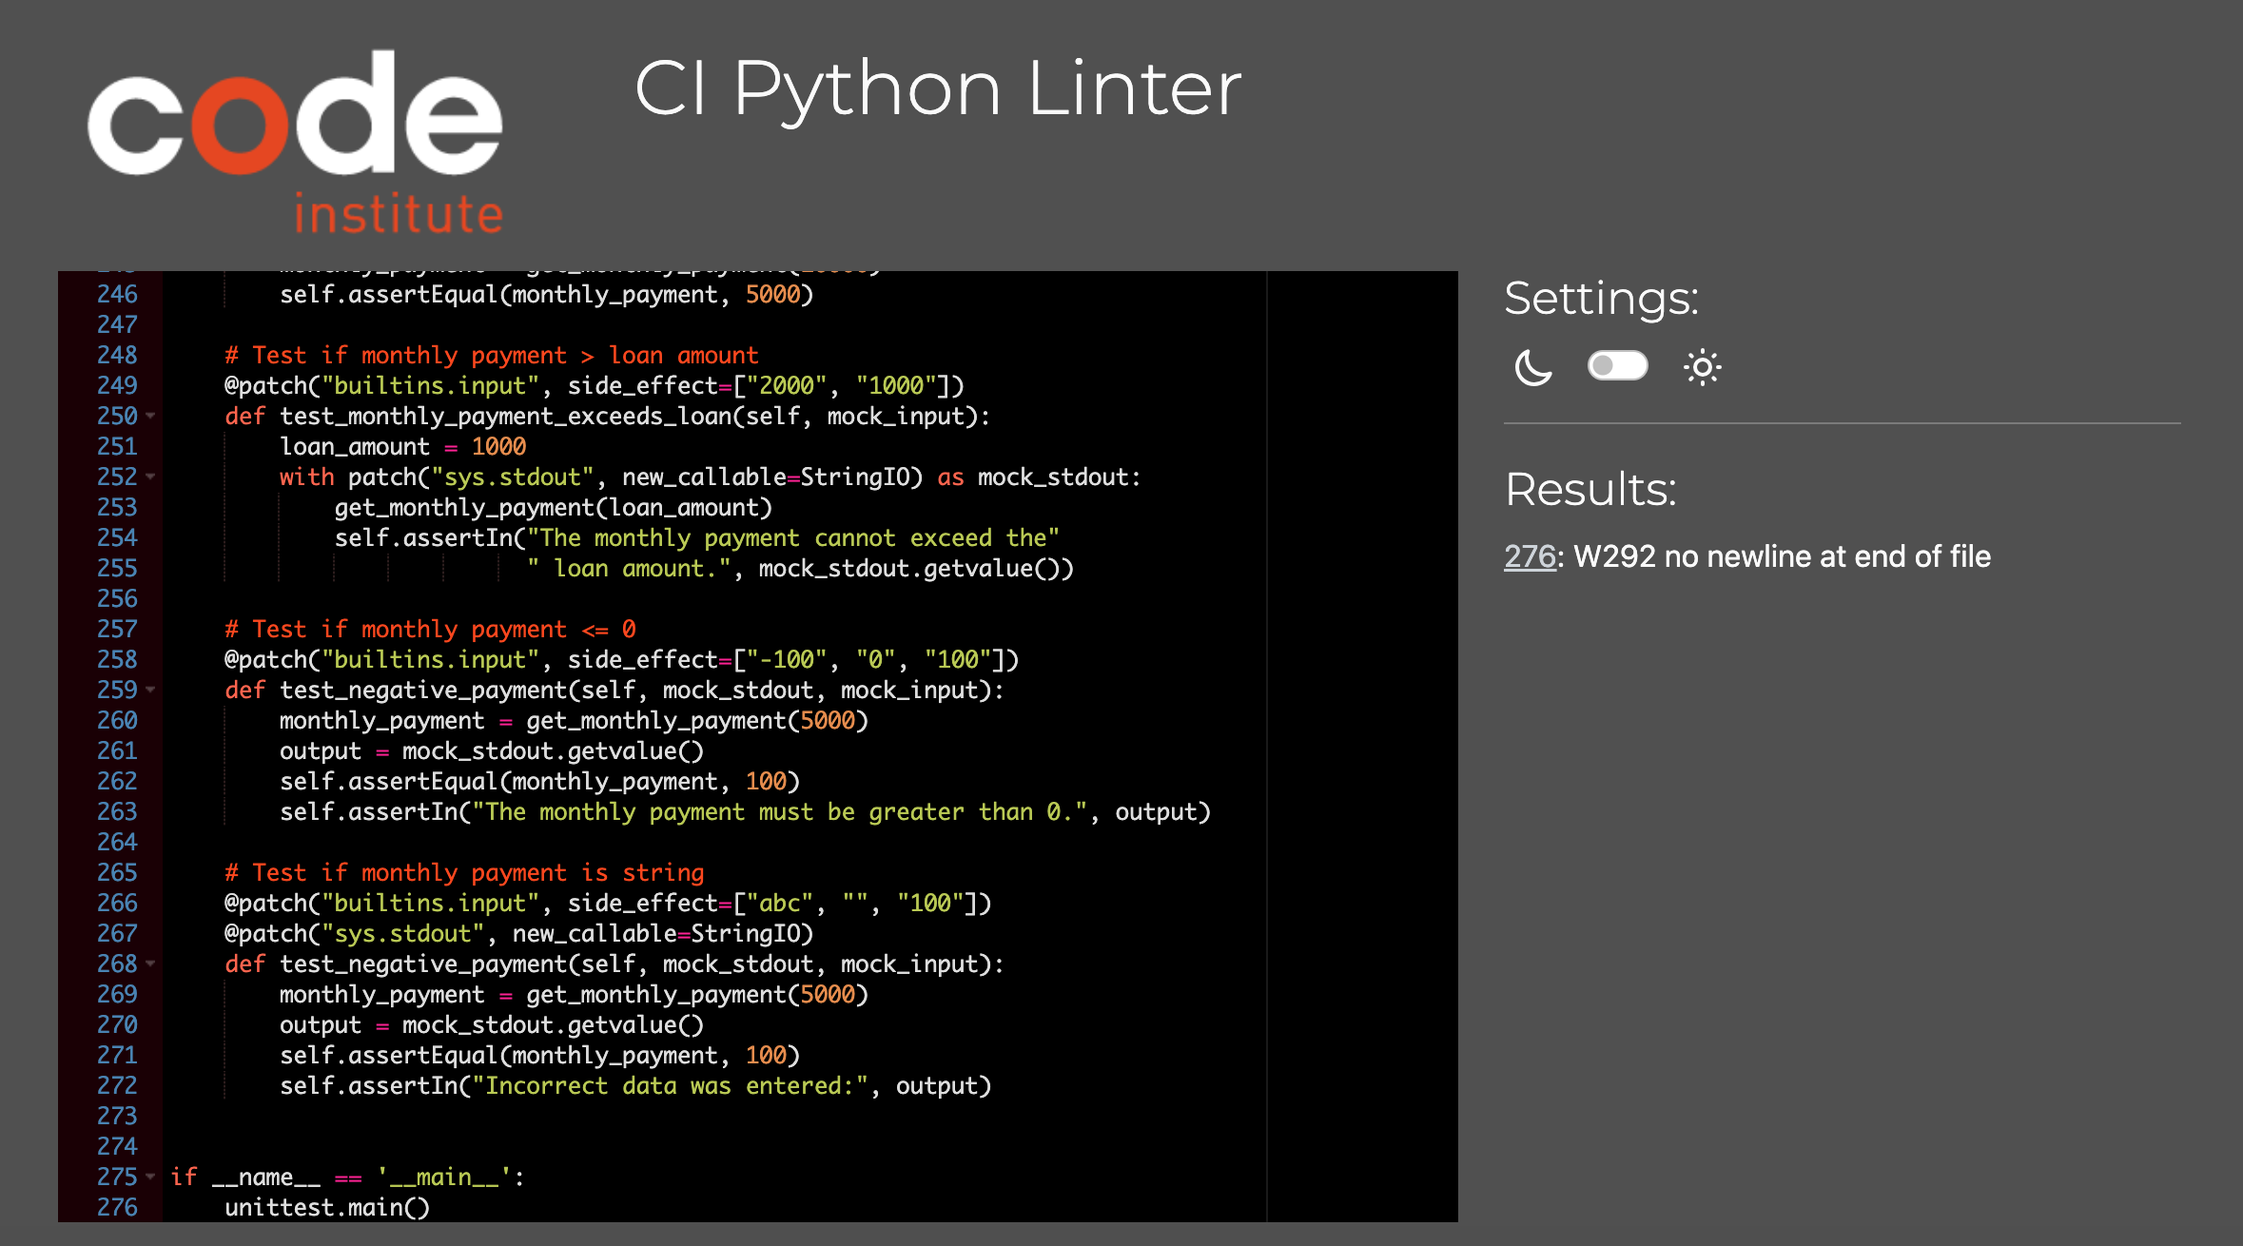
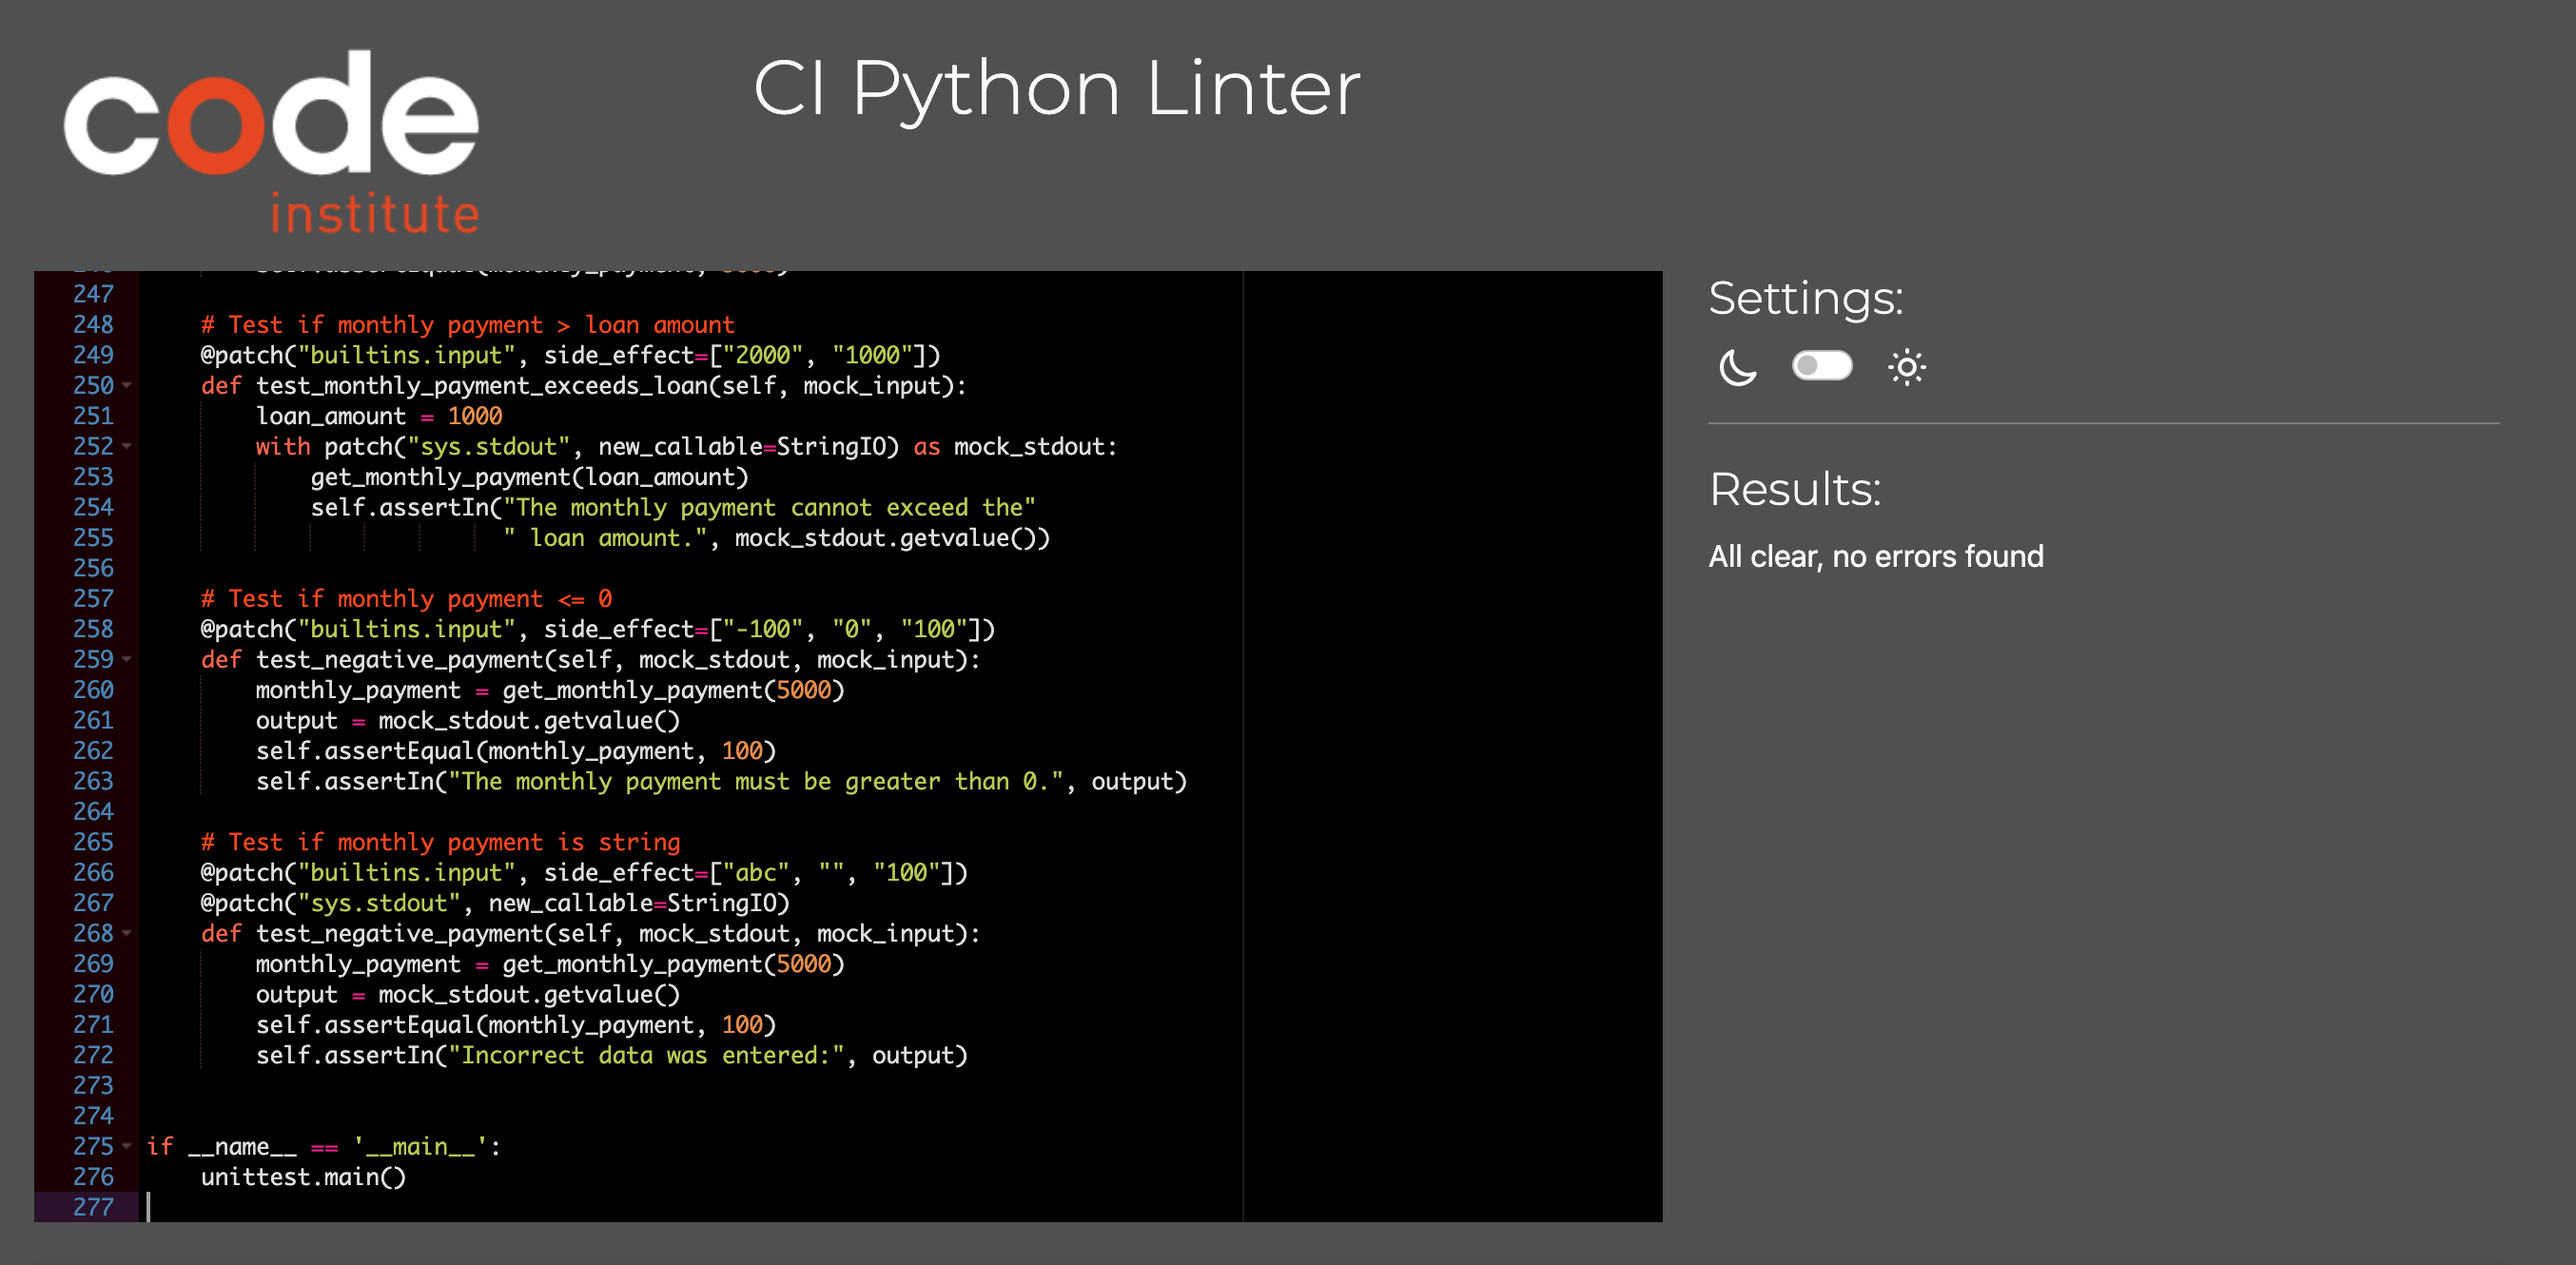
Add name == main to the bottom of the run file/add updated images from pep8 validator to readme

diff --git a/test.py b/test.py
@@ -11,36 +11,37 @@ class Test(unittest.TestCase):
     Testing the get functions
     """
     # Test for name
-    @patch("builtins.input", return_value="Tamas")
+    @patch("builtins.input", return_value="Tamas G")
     def test_get_name(self, mock_input):
         name = get_name()
-        self.assertEqual(name, "Tamas")
+        self.assertEqual(name, "Tamas G")
 
     # Test for the length of the name
-    @patch("builtins.input", side_effect=["four", "Tamas"])
+    @patch("builtins.input", side_effect=["four", "Tamas G"])
     @patch("sys.stdout", new_callable=StringIO)
     def test_get_name_short_input(self, mock_stdout, mock_input):
         name = get_name()
         output = mock_stdout.getvalue()
-        self.assertEqual(name, "Tamas")
+        self.assertEqual(name, "Tamas G")
         self.assertIn("The name is too short.", output)
 
     # Test if the name contains numbers
-    @patch("builtins.input", side_effect=["12345", "Tamas"])
+    @patch("builtins.input", side_effect=["1234335", "Tamas G"])
     @patch("sys.stdout", new_callable=StringIO)
     def test_get_name_num_input(self, mock_stdout, mock_input):
         name = get_name()
         output = mock_stdout.getvalue()
-        self.assertEqual(name, "Tamas")
-        self.assertIn("Name cannot contain numbers.", output)
+        self.assertEqual(name, "Tamas G")
+        self.assertIn("Name cannot contain numbers or"
+                      " special characters.", output)
 
     # Test if no data entered
-    @patch("builtins.input", side_effect=["", " ", "Tamas"])
+    @patch("builtins.input", side_effect=["", " ", "Tamas G"])
     @patch("sys.stdout", new_callable=StringIO)
     def test_get_name_no_input(self, mock_stdout, mock_input):
         name = get_name()
         output = mock_stdout.getvalue()
-        self.assertEqual(name, "Tamas")
+        self.assertEqual(name, "Tamas G")
         self.assertIn("The name field cannot be empty.", output)
 
     # Test for email
@@ -73,7 +74,7 @@ class Test(unittest.TestCase):
         phone = get_phone()
         output = mock_stdout.getvalue()
         self.assertEqual(phone, "1234567890")
-        self.assertIn("Please enter a valid phone number:", output)
+        self.assertIn("Please enter a valid phone number.", output)
 
     # Test for age
     @patch("builtins.input", return_value=30)

diff --git a/run.py b/run.py
@@ -64,13 +64,14 @@ def get_name():
         while True:
             name = input(standard_style() + "Please enter your full name:\n")
             # Check for digits in name
-            name_check = re.findall('\\d', name)
+            name_check = re.findall(r'[\d@,!?#£$%]', name)
             if name.strip() == "":
                 print(wrong_input() + "The name field cannot be empty.")
             elif len(name) < 6:
                 print(wrong_input() + "The name is too short.")
             elif name_check:
-                print(wrong_input() + "Name cannot contain numbers.")
+                print(wrong_input() + "Name cannot contain numbers or"
+                      " special characters.")
             else:
                 break  # Exit loop if name is valid
     except IndexError as e:
@@ -731,8 +732,8 @@ class Applicant:
             if applicant["Email"] == self.email.upper() and \
                applicant["Name"] == self.name.upper():
                 print(Fore.CYAN + Style.BRIGHT + "You have already applied"
-                      f" for a loan, and it was {applicant['Application']}.\n"
-                      , Fore.CYAN + Style.BRIGHT + f"{applicant}")
+                      f" for a loan, and it was {applicant['Application']}.\n",
+                      Fore.CYAN + Style.BRIGHT + f"{applicant}")
                 return True
 
         return False
@@ -768,4 +769,5 @@ def run():
             print("Application is closing...")
 
 
-run()
+if __name__ == '__main__':
+    run()

diff --git a/README.md b/README.md
@@ -8,11 +8,11 @@ The name of the app rhymes with "Check Alone" because users typically check thei
 ![AmIResponsive](docs/screenshots/am-i-responsive.png)
 
 ## Contents
-[How to Use](#how-to-use)
-[Features](#features)
+- [How to Use](#how-to-use)
+- [Features](#features)
   - [Existing Features](#existing-features)
   - [Future Features](#future-features)
-[Data Model](#data-model)
+- [Data Model](#data-model)
   - [Excel](#excel)
   - [Flowchart](#flowchart)
   - [Data Handling](#data-handling)
@@ -20,16 +20,16 @@ The name of the app rhymes with "Check Alone" because users typically check thei
     - [Outside Functions](#outside-functions)
     - [Applicant Class](#applicant-class)
   - [Libraries](#libraries)
-[Testing](#testing)
+- [Testing](#testing)
   - [Bugs](#bugs)
   - [Remaining Bugs](#remaining-bugs)
   - [Validator Testing](#validator-testing)
   - [Unit Testing](#unit-testing)
-[Deployment](#deployment)
+- [Deployment](#deployment)
   - [Local Development](#local-development)
     - [How to Fork](#how-to-fork)
     - [How to Clone](#how-to-clone)
-[Credits](#credits)
+- [Credits](#credits)
   - [Acknowledgements](#acknowledgements)
 
 ## How to Use
@@ -67,7 +67,7 @@ The name of the app rhymes with "Check Alone" because users typically check thei
         - Age over 65<br>![Age-over-65](/docs/screenshots/age-over-65.png)
         - Age between 18 - 65<br>![Age-valid](/docs/gif/age-validation-valid-age.gif)
     - If the user is unemployed the application will be cancelled,
-    <br>and the user will be taken back to the welcome page.
+    <br>and the user will be taken back to the welcome page.<br>
     ![Employment](/docs/gif/employment-validation-unemployed.gif)
     - The loan amount cannot exceed 20,000. If a higher amount is entered, the user will be notified<br> and can choose to proceed with the maximum amount or cancel the application.<br>
     ![Loan amount](/docs/gif/loan-amount-validation.gif)
@@ -100,7 +100,7 @@ Data maintaned in class instances. Some functions are handled outside of the cla
 
 #### Constant and Global variables
 
-- **database** is an empty dictionary. Store the user details.
+- **database** is an empty dictionary to store the user details.
 - **MIN SCORE** 70 points that needs to be reached for approval.
 - **MAX LOAN** the maximum loan amount of 20 000.
 - **MAX LOAN DURATION** - Max loan repayment length in months.
@@ -130,7 +130,7 @@ Data maintaned in class instances. Some functions are handled outside of the cla
 ![Duplicate](/docs/screenshots/duplicate-message.png)
 - **calculate functions** - once the details are confirmed , for each detail the score and interest rate will be calculated. 
 - **status function** - will return either "APPROVED" or "REJECTED".
-- **decision function** - will return the loan details and monthly payment with interest rate for the approved application or the rejection message with the score. 
+- **decision function** - will return the loan details and monthly payment with interest rate for the approved application or the rejection message with the score.<br>
 ![Approved](/docs/screenshots/decision.png)<br>
 ![Rejected](/docs/screenshots/rejected.png)
 - **add to database** - any applications get by the decision phase will be added to the database regardless the outcome. Beside the name and email address no other personal details will be stored. This function will increment the **application ID** by one to make sure the applications will not be replaced in the database.
@@ -141,7 +141,7 @@ The following libraries were used:
 - Colorama to add color to the text. The text is set to green by default. It changes to red for wrong input or if the application is rejected, and to blue if the user submits a duplicate request.
 - Tabulate to display the user details in a table.<br>
 ![Summary](/docs/screenshots/summary-ss.png)
-- RegEx used for phone and email validation
+- RegEx used for name, phone and email validation
 
 ## Testing
 
@@ -158,9 +158,7 @@ No bugs remaining.
 - PEP8 
     - No errors were returned from [PEP8](https://pep8ci.herokuapp.com/)
      Unit test<br>![Pep8unittest](/docs/validation/unittest-pep8.png)<br>
-     Run file<br>![Run.py](/docs/validation/run-file-validation.png)<br>
-     It returned a whitespace before "," in line 734, however there is none.<br>
-     ![error](/docs/validation/pep8-error.png)
+     Run file<br>![Run.py](/docs/validation/run-file-pep8.png)<br>
 
 
 ### Unit Testing
@@ -213,6 +211,9 @@ These resources provided valuable insights into testing input handling and mocki
 For email validation, I referenced the following resource to implement more complex checks beyond just "@" and ".":
 - [Javatpoint](https://www.javatpoint.com/how-to-validated-email-address-in-python-with-regular-expression.)
 This resource helped in applying regular expressions for robust email validation.
+
+For name and phone validation, I referenced to the following resource:
+- [W3chools](https://www.w3schools.com/python/python_regex.asp#gsc.tab=0)
 
 ### Acknowledgements
 
